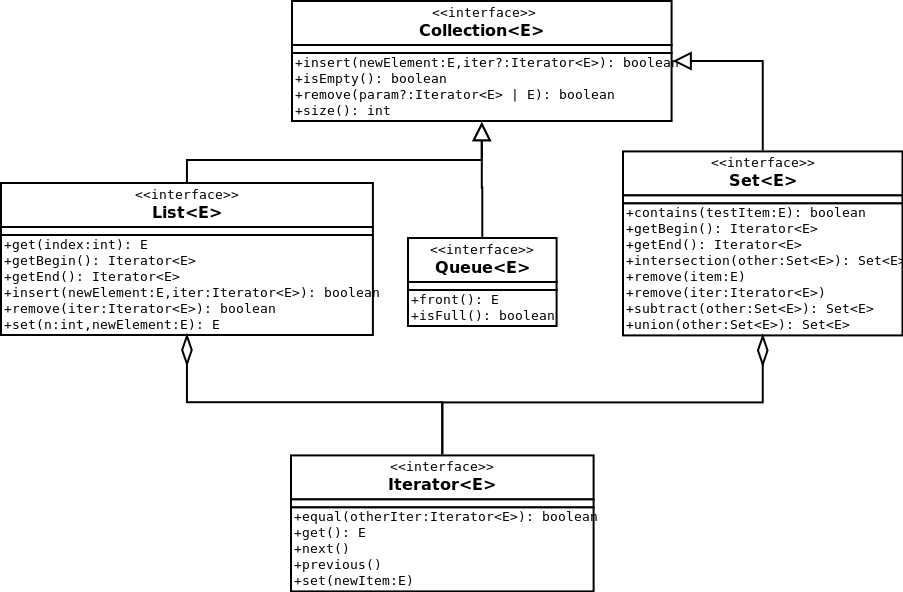
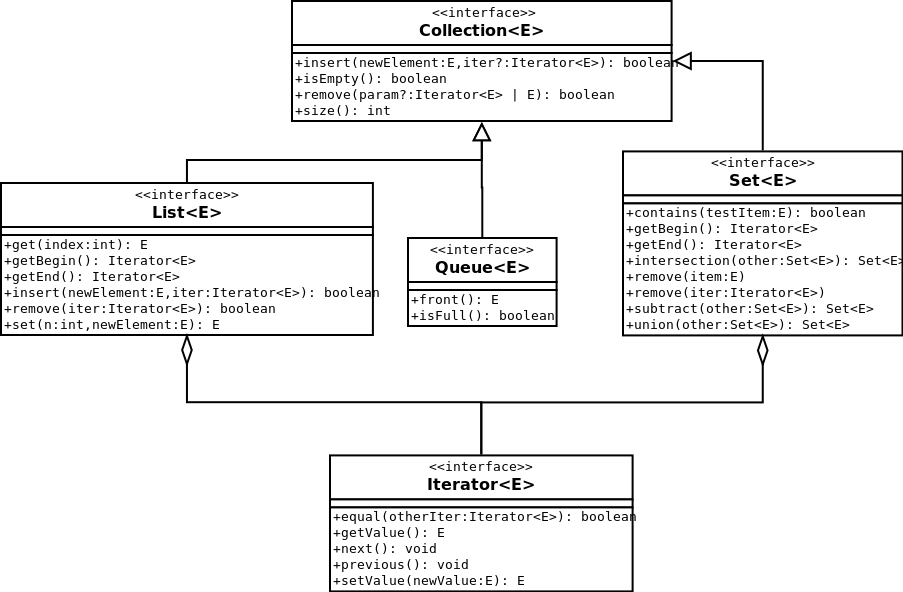
new interator implementation

Changed region(s): [[0.3101, 0.6993, 0.7132, 1.0], [0.3101, 0.7601, 0.3721, 0.7905], [0.4961, 0.6689, 0.5271, 0.6993]]

diff --git a/src/Iterator.ts b/src/Iterator.ts
@@ -6,11 +6,38 @@
  * @template E
  */
 export interface Iterator<E> {
-
+    /**
+     * Return true iff the other iterator refers to the same list element as this iterator.
+     * 
+     * @param {Iterator<E>} otherIter - the other iterator
+     * @returns {boolean} true iff the other iterator refers to the same list element as this iterator.
+     */
     equal(otherIter: Iterator<E>): boolean;
-    get(): E;
+    /**
+     * Returns the value of the element that this iterator refers to. 
+     * Undefined if the iterator is past-the-end.
+     * 
+     * @returns {E} the value of the element that this iterator refers to; undefined if the iterator is past-the-end
+     */
+    getValue(): E;
+    /**
+     * Makes this iterator refer to the next element in the collection. 
+     * Undefined if the iterator is past-the-end.
+     * 
+     */
     next(): void;
+    /**
+     * Makes this iterator refer to the previous element in the collection. 
+     * Undefined if the iterator refers to the first element.
+     * 
+     */
     previous(): void;
-    set(newItem: E): void;
-
+    /**
+     * Assigns a new value to the element that this iterator refers to. 
+     * Undefined if the iterator is past-the-end.
+     * 
+     * @param {E} newValue - the new value to be assigned to the element that this iterator refers to
+     * @returns {E} the previous value of the element that his iterator refers to; undefined if the iterator is past-the-end
+     */
+    setValue(newValue: E): E;
 }
